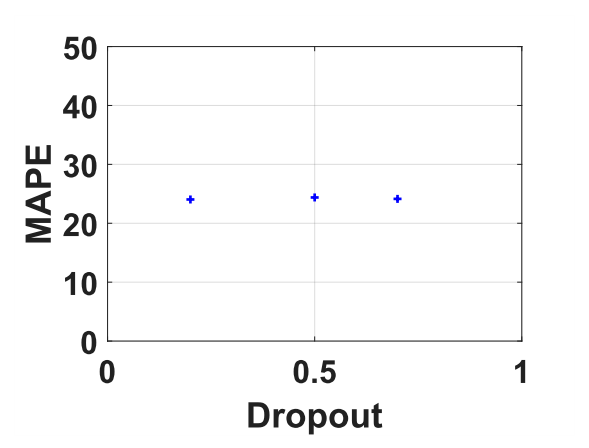
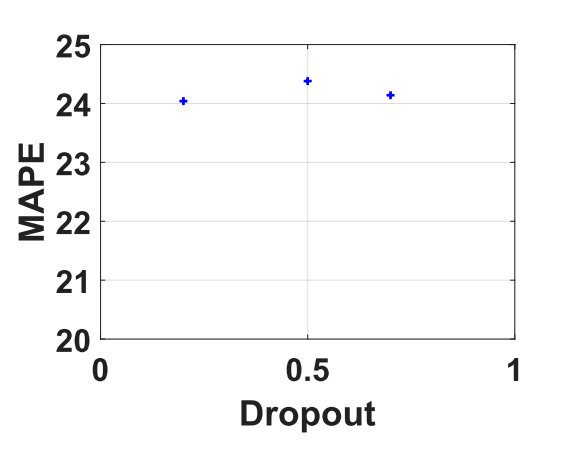
update

Changed region(s): [[0.03, 0.0625, 0.9311, 0.9688], [0.5406, 0.3438, 0.5707, 0.375], [0.5406, 0.1562, 0.5707, 0.1875]]

diff --git a/index.md b/index.md
@@ -61,7 +61,7 @@
 		<em>Figure5 MAPE for IMU</em>
 </p>
 
-### __Figure 5. MAPE for travel time estimation with IMU data.__
+### __Figure 5. MAPE for travel time estimation with IMU data, reducing the MAPE value with 2%.__
 
 -------------------------------------------
 <p align="left">
